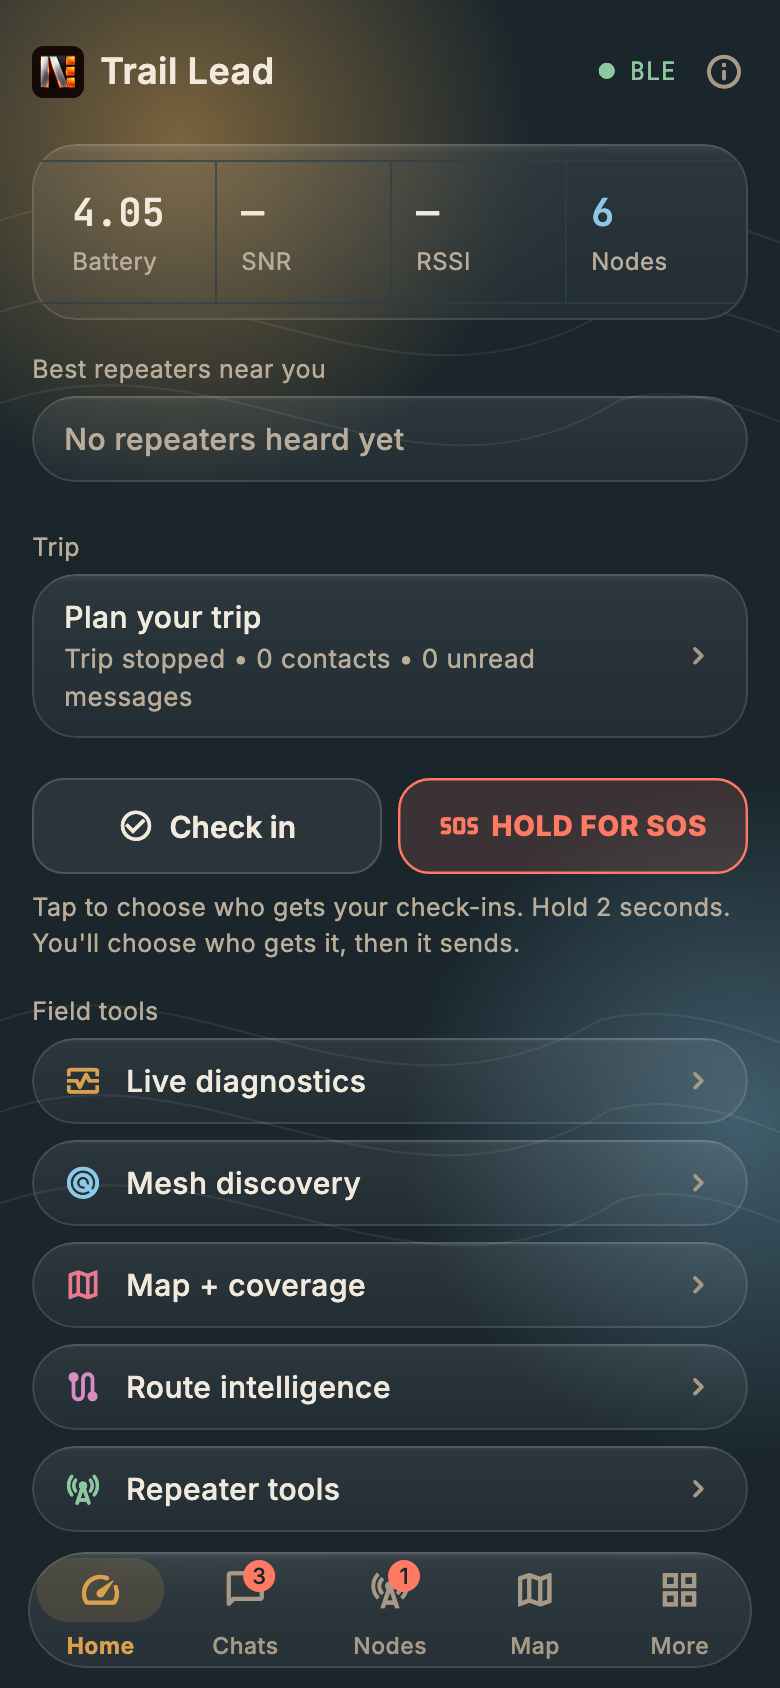
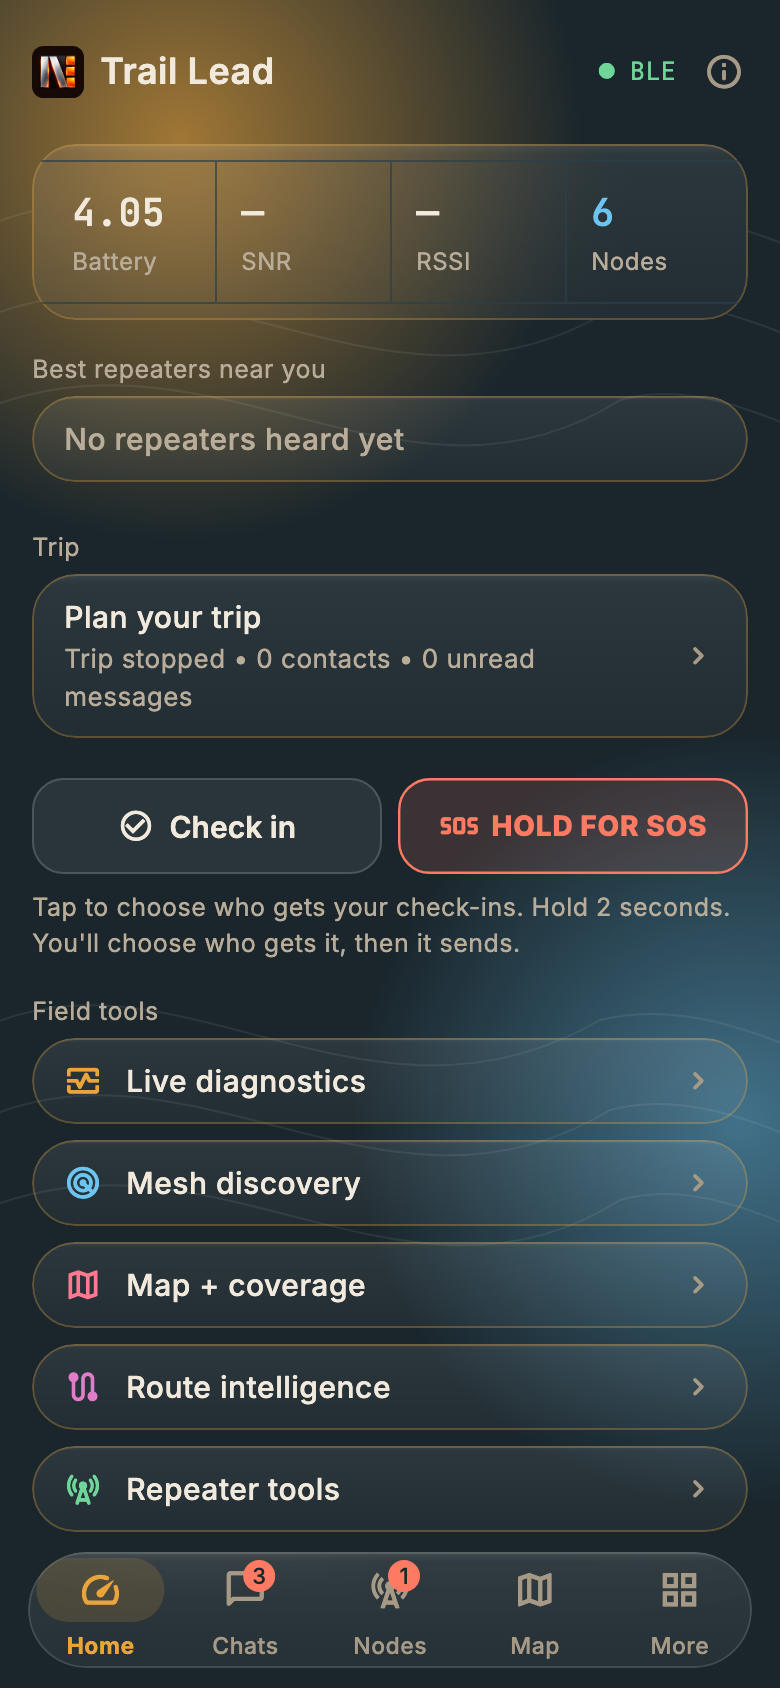
Themes: bolder colors, stronger glow, accent-tinted card edges
- More saturated accents, second and third hues, and good-signal greens
  and warning yellows where they were pastel (Blaze, Autumn Frost,
  Bubble Gum, Bronzed Blush, Red light). Bronzed Blush's four named
  colors and the Okabe-Ito palette are unchanged.
- The background glows are larger and stronger, and show more on the
  light theme.
- Glass cards now catch the theme's accent at their edge.

Every color still passes the readability tests; Autumn Frost's cranberry
and Bubble Gum's accent were adjusted to stay at or above 4.5:1.

diff --git a/lib/theme/bastion_themes.dart b/lib/theme/bastion_themes.dart
@@ -96,20 +96,20 @@ enum BastionTheme {
       ink2: Color(0xFFD9D5CE),
       ink3: Color(0xFFB3AFA8),
       ink4: Color(0xFF9A9A95),
-      signal: Color(0xFF8FCB9B),
+      signal: Color(0xFF5FD98A),
       signalDim: Color(0xFF6FA37B),
-      warn: Color(0xFFF5C85A),
+      warn: Color(0xFFFFC83D),
       warnDim: Color(0xFFC9A043),
       alert: Color(0xFFFF5A4E),
-      accent: Color(0xFFFF9A3C),
+      accent: Color(0xFFFF8A1F),
       accentDim: Color(0xFFC97526),
       onAccent: Color(0xFF2A1300),
       // Glacier teal and ultraviolet against the blaze orange.
-      secondary: Color(0xFF3FC8D8),
-      tertiary: Color(0xFFB39BFF),
-      magenta: Color(0xFFFF7AB8),
+      secondary: Color(0xFF22D3E6),
+      tertiary: Color(0xFFA985FF),
+      magenta: Color(0xFFFF5FAE),
       me: Color(0xFF3A2A1C),
-      meBorder: Color(0xFFB5732F),
+      meBorder: Color(0xFFFF8A1F),
       meInk: Color(0xFFF2EFEA),
       primaryContainer: Color(0xFF4A2E14),
       secondaryContainer: Color(0xFF12393F),
@@ -136,20 +136,20 @@ enum BastionTheme {
       ink2: Color(0xFFD9CDBB),
       ink3: Color(0xFFB9AD9A),
       ink4: Color(0xFFA69A87),
-      signal: Color(0xFF8FC79F),
+      signal: Color(0xFF6FD69A),
       signalDim: Color(0xFF6F9F7E),
-      warn: Color(0xFFE8C062),
+      warn: Color(0xFFF2C14A),
       warnDim: Color(0xFFB8963F),
       alert: Color(0xFFFF7A63),
       // A brighter Amber Oak, so buttons and links read on the slate.
-      accent: Color(0xFFD9A04E),
+      accent: Color(0xFFEBA43A),
       // Amber Oak
       accentDim: Color(0xFFA06A25),
       onAccent: Color(0xFF24170A),
       // Frost blue and cranberry beside the amber leaves.
-      secondary: Color(0xFF8CC9E8),
-      tertiary: Color(0xFFE8798E),
-      magenta: Color(0xFFD98CC4),
+      secondary: Color(0xFF6CC4F0),
+      tertiary: Color(0xFFFF7A90),
+      magenta: Color(0xFFE07CC8),
       // Chestnut Ember
       me: Color(0xFF854D2B),
       meBorder: Color(0xFFA06A25),
@@ -184,13 +184,13 @@ enum BastionTheme {
       warn: Color(0xFF6E3F00),
       warnDim: Color(0xFF7F4E07),
       alert: Color(0xFF8F001E),
-      accent: Color(0xFF8E0B56),
+      accent: Color(0xFF920054),
       accentDim: Color(0xFFC77DDB),
       onAccent: Color(0xFFFFEAF4),
       // Deep lagoon teal and grape, dark enough to read on the pink.
       secondary: Color(0xFF004E56),
-      tertiary: Color(0xFF4B1FA0),
-      magenta: Color(0xFF7A1F8C),
+      tertiary: Color(0xFF5414B8),
+      magenta: Color(0xFF8010A0),
       me: Color(0xFFB5207A),
       meBorder: Color(0xFFD9A2E6),
       meInk: Color(0xFFFFF2F8),
@@ -218,7 +218,7 @@ enum BastionTheme {
       ink2: Color(0xFFE6D0C9),
       ink3: Color(0xFFC9AEA6),
       ink4: Color(0xFFB39890),
-      signal: Color(0xFF9ED3A6),
+      signal: Color(0xFF7FDA98),
       signalDim: Color(0xFF74A47D),
       warn: Color(0xFFF2C46A),
       warnDim: Color(0xFFC29A45),
@@ -230,8 +230,8 @@ enum BastionTheme {
       onAccent: Color(0xFF2A1214),
       // A lighter copper of the bronze, and a rose mauve of the inner tone,
       // so the pinks have company.
-      secondary: Color(0xFFE0A27F),
-      tertiary: Color(0xFFD896B0),
+      secondary: Color(0xFFF09E6A),
+      tertiary: Color(0xFFE88AB4),
       // Pale Pink
       magenta: Color(0xFFE6A6A6),
       // Deep Bronze
@@ -268,12 +268,12 @@ enum BastionTheme {
       warn: Color(0xFFFF8A5C),
       warnDim: Color(0xFFC96A45),
       alert: Color(0xFFFF2D20),
-      accent: Color(0xFFFF4A3D),
+      accent: Color(0xFFFF3B2E),
       accentDim: Color(0xFFC23A30),
       onAccent: Color(0xFF1A0503),
       // Still only reds, for night vision: an ember orange-red and a coral.
-      secondary: Color(0xFFFF7A45),
-      tertiary: Color(0xFFE86A5E),
+      secondary: Color(0xFFFF6A2E),
+      tertiary: Color(0xFFF0584A),
       magenta: Color(0xFFD9786F),
       me: Color(0xFF3A1412),
       meBorder: Color(0xFF8A2E28),

diff --git a/lib/widgets/ember_backdrop.dart b/lib/widgets/ember_backdrop.dart
@@ -79,10 +79,10 @@ class EmberPainter extends CustomPainter {
   /// (centre x, centre y, radius, strength) for the two glows, in phone
   /// units.
   List<(double, double, double, double)> get _glows => switch (scene) {
-    EmberScene.home => [(90, 70, 220, 0.50), (370, 560, 210, 0.34)],
-    EmberScene.chats => [(360, 60, 240, 0.46), (0, 660, 210, 0.30)],
-    EmberScene.nodes => [(160, 0, 230, 0.47), (400, 720, 220, 0.28)],
-    EmberScene.more => [(320, 40, 230, 0.46), (20, 600, 210, 0.30)],
+    EmberScene.home => [(90, 70, 250, 0.64), (370, 560, 240, 0.48)],
+    EmberScene.chats => [(360, 60, 260, 0.60), (0, 660, 240, 0.44)],
+    EmberScene.nodes => [(160, 0, 250, 0.60), (400, 720, 240, 0.42)],
+    EmberScene.more => [(320, 40, 250, 0.60), (20, 600, 240, 0.44)],
   };
 
   /// Contour bands as y offsets of the first line; each band has three.
@@ -101,7 +101,7 @@ class EmberPainter extends CustomPainter {
     // A wide window stretches the layout; size glows by the shorter axis
     // so they stay round.
     final s = sx < sy ? sx : sy;
-    final fade = dark ? 1.0 : 0.5;
+    final fade = dark ? 1.0 : 0.7;
 
     for (final (i, (cx, cy, r, strength)) in _glows.indexed) {
       final colour = i == 0 ? glow : second;

diff --git a/lib/widgets/tactical_glass_panel.dart b/lib/widgets/tactical_glass_panel.dart
@@ -2,6 +2,8 @@ import 'dart:ui';
 
 import 'package:flutter/material.dart';
 
+import '../theme/mesh_theme.dart';
+
 /// Reusable NOTORYX frosted-glass panel.
 ///
 /// A see-through surface with a bright top edge, so the
@@ -46,10 +48,9 @@ class TacticalGlassPanel extends StatelessWidget {
             Colors.white.withValues(alpha: bottom),
           ],
         ),
+        // The edge catches the theme's accent, so cards carry its color.
         border: Border.all(
-          color: isDark
-              ? Colors.white.withValues(alpha: 0.12)
-              : Colors.black.withValues(alpha: 0.08),
+          color: MeshPalette.accent.withValues(alpha: isDark ? 0.30 : 0.38),
         ),
       ),
       child: Padding(padding: padding, child: child),

diff --git a/test/theme/bastion_themes_test.dart b/test/theme/bastion_themes_test.dart
@@ -213,9 +213,9 @@ void main() {
 
   test('the palette follows the chosen theme', () {
     MeshPalette.current = BastionTheme.bubbleGum.palette;
-    expect(MeshPalette.accent, const Color(0xFF8E0B56));
+    expect(MeshPalette.accent, const Color(0xFF920054));
     MeshPalette.current = BastionTheme.blaze.palette;
-    expect(MeshPalette.accent, const Color(0xFFFF9A3C));
+    expect(MeshPalette.accent, const Color(0xFFFF8A1F));
     expect(MeshTheme.light().brightness, Brightness.light);
     expect(MeshTheme.dark().brightness, Brightness.dark);
   });
